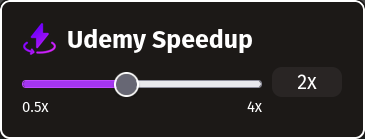
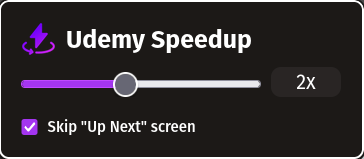
Add option to skip "Up Next" screen

diff --git a/popup/js/event_listeners.js b/popup/js/event_listeners.js
@@ -1,0 +1,74 @@
+// What's this do?: This grabs the elements by id and adds event listeners to
+//                  them. If the value is changed in any of these elements. It
+//                  is sent to popup listener in content_scripts.
+
+const speedRangeInputElem = document.getElementById('speedRangeInput');
+const speedTextInputElem = document.getElementById('speedTextInput');
+const checkboxElem = document.getElementById('skipUpNextCheckbox');
+
+// Listener for input text
+speedTextInputElem.addEventListener('keypress', (event) => {
+  // Continue thru the function once the user hits "Enter"
+  if (!(event.key === 'Enter')) {
+    return;
+  }
+
+  // Grab the value (of type string)
+  let value = speedTextInputElem.value.trim();
+
+  // If the last character is an x, remove it
+  if (value.endsWith('x')) {
+    value = value.slice(0, -1);
+  }
+
+  // Dont continue if the value is empty or not a value
+  if (!value || isNaN(value)) {
+    speedTextInputElem.value = `${LS_videoSpeed()}x`;
+    return;
+  }
+
+  // if value is a decimal, make sure it only has two two decimal places
+  if (value.includes('.')) {
+    const decimalPart = value.split('.')[1];
+
+    // Check if the decimal part has 3 or more digits (if so roundup)
+    if (decimalPart.length >= 3) {
+      value = parseFloat(value).toFixed(2);
+    }
+  }
+
+  if (+value < MIN_SPEED) {
+    speedTextInputElem.value = `${MIN_SPEED}x`;
+    value = MIN_SPEED.toString();
+  }
+
+  if (+value > MAX_SPEED) {
+    speedTextInputElem.value = `${MAX_SPEED}x`;
+    value = MAX_SPEED.toString();
+  }
+
+  // If the new video speed is the same as old, then don't continue
+  if (value === LS_videoSpeed()) {
+    return;
+  }
+
+  localStorage.setItem(VIDEO_SPEED_KEY, value);
+  speedRangeInputElem.value = value;
+  speedTextInputElem.value = `${value}x`;
+  sendMessage(videoSpeedObj((isSet = true)));
+});
+
+// Listener for range (slider) input
+speedRangeInputElem.addEventListener('input', () => {
+  let value = speedRangeInputElem.value;
+
+  localStorage.setItem(VIDEO_SPEED_KEY, value);
+  speedTextInputElem.value = `${value}x`;
+  sendMessage(videoSpeedObj((isSet = true)));
+});
+
+// Listener for checkbox
+checkboxElem.addEventListener('change', () => {
+  localStorage.setItem(SKIP_DELAY_KEY, checkboxElem.checked);
+  sendMessage(checkboxValObj((isSet = true)));
+});

diff --git a/content_scripts/2_popup_listener.js b/content_scripts/2_popup_listener.js
@@ -3,34 +3,37 @@
 //                  any changes within the extension
 
 browser.runtime.onMessage.addListener((message, sender, sendResponse) => {
-  // Check if videoSpeed from localStorage exists
-  let videoSpeed = localStorage.getItem(VIDEO_SPEED_KEY) || null;
   let response = {};
 
-  // Tell popup to use localStorage's speed for reference
-  if (videoSpeed && !message.newSpeedValue) {
-    response.speed = videoSpeed;
-  } else {
-    // Otherwise accept new videoSpeed from popup
-    videoSpeed = message.videoSpeed;
+  let LSvideoSpeed = localStorage.getItem(VIDEO_SPEED_KEY) || null;
+
+  // If video speed is already set on client side
+  if (LSvideoSpeed && !message.newSpeedValue) {
+    response.speed = LSvideoSpeed;
+  }
+  // If video speed is NOT SET on client side or new value is set
+  else if (!LSvideoSpeed || message.newSpeedValue) {
+    const newVideoSpeed = message.videoSpeed;
 
     if (videoElem && playBackTextElem) {
-      videoElem.playbackRate = +videoSpeed;
-      playBackTextElem.textContent = `${videoSpeed}x`;
+      videoElem.playbackRate = +newVideoSpeed;
+      playBackTextElem.textContent = `${newVideoSpeed}x`;
     }
 
-    localStorage.setItem(VIDEO_SPEED_KEY, videoSpeed);
+    localStorage.setItem(VIDEO_SPEED_KEY, newVideoSpeed);
     response.speed = null;
   }
 
   let checkboxValue = localStorage.getItem(SKIP_DELAY_KEY) || null;
 
+  // If checkbox is already set on client side
   if (checkboxValue && !message.newCheckboxValue) {
-    // If localstorage value is found send that to popup
     response.checkboxValue = checkboxValue;
-  } else {
-    checkboxValue = message.checkboxValue;
-    localStorage.setItem(SKIP_DELAY_KEY, checkboxValue);
+  }
+  // If checkbox is NOT SET on client side or new value is set
+  else if (!checkboxValue || message.newCheckboxValue) {
+    const newCheckboxValue = message.checkboxValue;
+    localStorage.setItem(SKIP_DELAY_KEY, newCheckboxValue);
     response.checkboxValue = null;
   }
 

diff --git a/popup/js/functions.js b/popup/js/functions.js
@@ -1,0 +1,72 @@
+// What's this do?: These are common functions used throughout the popup.
+//                  The first two are used to grab values from local storage.
+//                  The rest are used for sending messages to content_scripts.
+//                  and the type of data they carry. In this case objects.
+
+/**
+ * Gets videoSpeed from local storage.
+ * @returns {string}
+ */
+function LS_videoSpeed() {
+  let videoSpeed = localStorage.getItem(VIDEO_SPEED_KEY) || null;
+
+  if (!videoSpeed) {
+    videoSpeed = DEFAULT_SPEED.toString();
+    localStorage.setItem(VIDEO_SPEED_KEY, videoSpeed);
+  }
+
+  return videoSpeed;
+}
+
+/**
+ * Gets checkbox value from local storage
+ * @returns {"true"|"false"}
+ */
+function LS_checkboxValue() {
+  let isChecked = localStorage.getItem(SKIP_DELAY_KEY) || null;
+
+  if (!isChecked) {
+    isChecked = DEFAULT_CHECKBOX_VALUE.toString();
+    localStorage.setItem(SKIP_DELAY_KEY, isChecked);
+  }
+
+  return isChecked;
+}
+
+/**
+ * This sends data to the popup listener.
+ * @param {object} obj
+ * @returns {void}
+ */
+function sendMessage(obj) {
+  return browser.tabs
+    .query({ active: true, currentWindow: true })
+    .then((tabs) => {
+      let activeTab = tabs[0];
+      return browser.tabs.sendMessage(activeTab.id, obj);
+    });
+}
+
+/**
+ * Sends the video speed object. Dictates whether value is newly set.
+ * @param {boolean} isSet
+ * @returns {object}
+ */
+function videoSpeedObj(isSet) {
+  return {
+    newSpeedValue: isSet,
+    videoSpeed: LS_videoSpeed(),
+  };
+}
+
+/**
+ * Sends the checkbox object. Dictates whether value is newly set.
+ * @param {boolean} isSet
+ * @returns {object}
+ */
+function checkboxValObj(isSet) {
+  return {
+    newCheckboxValue: isSet,
+    checkboxValue: LS_checkboxValue(),
+  };
+}

diff --git a/popup/js/on_startup.js b/popup/js/on_startup.js
@@ -1,0 +1,40 @@
+// What's this do?: This sets the min and max for the slider input. As well as
+//                  sending a message as soon as the extension is opened up.
+//                  If a value is already set on the client side. It will use
+//                  those values instead of the ones set here (extension side).
+
+// Set min and max for slider input
+speedRangeInputElem.min = MIN_SPEED;
+speedRangeInputElem.max = MAX_SPEED;
+
+// Send message to content_scripts when extension is opened up
+sendMessage({
+  ...videoSpeedObj((isSet = false)),
+  ...checkboxValObj((isSet = false)),
+})
+  .then((response) => {
+    console.log('Response from content script:', response);
+
+    // If a videospeed is already set on the client side, use speed on extension
+    // side instead
+    if (response.speed) {
+      const videoSpeed = response.speed;
+      speedRangeInputElem.value = videoSpeed;
+      speedTextInputElem.value = `${videoSpeed}x`;
+    } else {
+      const videoSpeed = LS_videoSpeed();
+      speedRangeInputElem.value = videoSpeed;
+      speedTextInputElem.value = `${videoSpeed}x`;
+    }
+
+    // If a checkbox value is already set on the client side, use speed on
+    // extension side instead
+    if (response.checkboxValue) {
+      checkboxElem.checked = response.checkboxValue === 'true';
+    } else {
+      checkboxElem.checked = LS_checkboxValue() === 'true';
+    }
+  })
+  .catch((error) => {
+    console.error('Error sending message:', error);
+  });

diff --git a/popup/popup.html b/popup/popup.html
@@ -3,6 +3,10 @@
   <head>
     <meta charset="utf-8" />
     <link href="./output.css" rel="stylesheet" />
+    <script src="../constants.js" defer></script>
+    <script src="./js/functions.js" defer></script>
+    <script src="./js/event_listeners.js" defer></script>
+    <script src="./js/on_startup.js" defer></script>
   </head>
   <body class="border-2 border-white bg-stone-900 p-4">
     <header class="flex items-center gap-2">
@@ -17,10 +21,6 @@
           step="0.25"
           class="h-2 cursor-pointer rounded-lg accent-[#A435F0]"
         />
-        <p class="flex justify-between text-xs">
-          <span id="start-speed">0.5x</span>
-          <span id="end-speed">4x</span>
-        </p>
       </div>
       <input
         id="speedTextInput"
@@ -28,7 +28,7 @@
         class="remove-arrow h-6 w-14 rounded-lg bg-stone-800 p-2 text-center placeholder:text-stone-400 focus:outline-none"
       />
     </main>
-    <section class="mt-3 flex items-center">
+    <section class="mt-4 flex items-center">
       <input
         id="skipUpNextCheckbox"
         type="checkbox"
@@ -36,7 +36,5 @@
       />
       <label class="ms-2 text-xs font-medium">Skip "Up Next" screen</label>
     </section>
-    <script src="../constants.js"></script>
-    <script src="./popup.js"></script>
   </body>
 </html>

diff --git a/constants.js b/constants.js
@@ -1,7 +1,7 @@
 const VIDEO_SPEED_KEY = 'videoSpeed';
 const SKIP_DELAY_KEY = 'skipUpNext';
 const DEFAULT_SPEED = 1;
-const DEFAULT_SKIP_DELAY_CB_VALUE = true;
+const DEFAULT_CHECKBOX_VALUE = true;
 const MIN_SPEED = 0.5;
 const MAX_SPEED = 4;
 

diff --git a/README.md b/README.md
@@ -58,4 +58,5 @@ You'll get the structure of the project. Let's run it down.
   - Listens when the user enters a shortcut. Telling the popup.js to correctly reflect the new playback speed.
   - Update the playback text on screen when the user clicks onto a new Udemy tab.
     - It does this by running the content script **5_update_playback_text.js**.
+- The `content_scripts` dir has files to find elements in the DOM. It applys the playback speed and updates the playback text. While also watching the progress bar to determine if a video has finished and if so, skip the "Up next" screen. Each file has a comment at the top explaining its purpose :)
 - The `popup` dir has files to control the look and behaviour of the extension. Sending and receiving messages from content_scripts. The file **2_popup_listener.js** is where the messages are sent.
